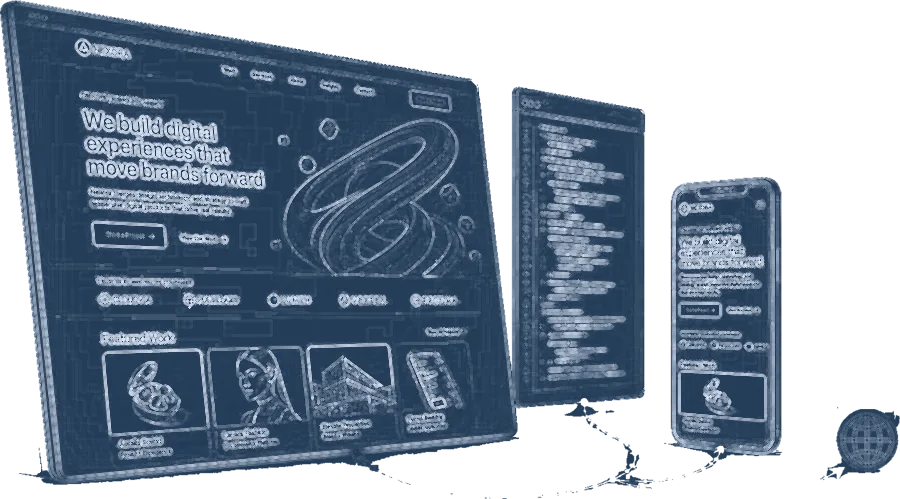
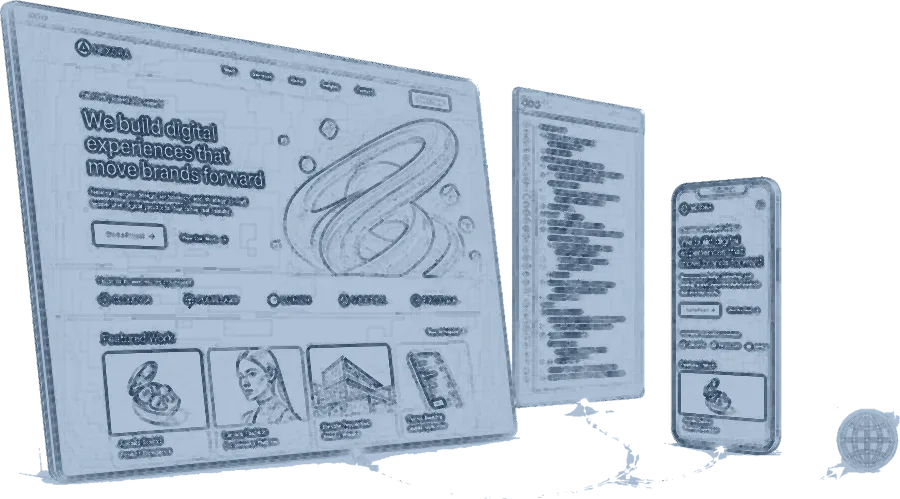
Turn the plates the right way up: graphite on paper, not silver on navy
Struck was the wrong call and the numbers say why. The ground landed at luma
0.235 against a page of 0.204 -- 0.03 of separation, which is no visible plate
at all -- and what sat on it was one-pixel silver strokes. 03's six print at
132px. Nothing read.

The rule that actually binds is only that a plate may not be DARKER than the
page, which is the hole-in-the-page failure every script here guards against.
A LIGHT plate was never the problem: the photographs these replace ran 0.29 to
0.55. So the drawing goes the ordinary way round -- a light panel with the
book's own navy on it -- and the medians run 0.65 to 0.75 against the same
0.2036 page.

Both colours are chosen against a failure rather than picked. INK #22384f sits
a shade off the page, so a stroke reads as the paper showing through instead of
as a black line. PAPER #aec1d6 stops well short of white: at 0.83 the plate is
a lit slab stuck on the page, which is the sticker failure recorded against
07's action panel.

Two mechanical consequences. The negate is gone, and the thickening operator
flips with it -- Erode grows the dark region and the strokes are dark now,
where the struck version wanted Dilate for the same reason inverted; swapping
the drawing over without swapping the operator eats it. And PAPER the colour
collided with PAPER the sampled page luma, which would have handed
+level-colors a number where it wanted a hex, so the measurement is PAGE_LUMA.
[…]

diff --git a/CLAUDE.md b/CLAUDE.md
@@ -1217,18 +1217,28 @@ re-run here.
 - **It is not idempotent.** Sketching a sketch finds edges in the first pass's
   own strokes and doubles them. `git checkout apps/web/public/{services,process,work}`
   before a second run, exactly as `stamp-book-logo.py` requires.
-- **The drawing is struck, not printed.** A pencil sketch is graphite on white
-  paper and white paper is the one thing this book cannot have — a plate
-  lighter than the page is a hole punched in it. The sketch is made on white
-  and then negated, so the ground goes dark and the strokes come up silver,
-  which is what 01's and 07's engravings already do through their masks. The
-  chapter illustrations and the engraved figures are now the same kind of
-  picture.
-- **Tone is `build-process-plates.sh`'s, exactly**, and the audit tests the
-  same statistic against the same pixel: the MEDIAN against a paper luma
-  sampled live off `frame-091` (0.2036). Median and not minimum — a drawing is
-  *supposed* to contain strokes darker than the paper; what it may not be is
-  darker overall. All fifteen land 0.222–0.387.
+- **It is graphite on paper, and it shipped struck first.** The first version
+  was made on white and then NEGATED — dark ground, silver strokes — to match
+  01's and 07's engravings, which are painted through luminance masks in
+  `#dce7f7`. It was unreadable. The ground landed at luma 0.235 against a page
+  of 0.204, which is no visible plate at all, and what sat on it was one-pixel
+  silver strokes; 03's six print at 132px. **The rule that actually binds is
+  only that a plate may not be DARKER than the page** — the hole-in-the-page
+  failure — and a light plate was never the problem: the photographs these
+  replace ran 0.29–0.55. So it is a pencil sketch the ordinary way round now, a
+  light panel with the book's own navy drawn on it, and the medians run
+  0.65–0.75.
+- **`INK` is a shade off the page and `PAPER` stops short of white.** A stroke
+  at `#22384f` (0.21) against a page of 0.204 reads as the paper showing
+  through rather than as a black line; `PAPER` at `#aec1d6` (0.72) rather than
+  0.83 keeps the plate from being a lit slab stuck on the page — the sticker
+  failure recorded against 07's action panel. The audit is still
+  `build-process-plates.sh`'s: the MEDIAN against a page luma sampled live off
+  `frame-091` (0.2036). Median and not minimum — a drawing is *supposed* to
+  contain strokes as dark as the page; what it may not be is darker overall.
+- **`PAPER` is the colour and `PAGE_LUMA` is the measurement.** They were both
+  called `PAPER` for one revision and the sampled luma overwrote the colour,
+  which would have fed `+level-colors` a number where it wanted a hex.
 - **Two traps, both hit on the way in.** `%[fx:minima]` on an sRGB file is the
   darkest CHANNEL, and `#233c58` has a red of 0.137 against a luma of 0.235, so
   the first audit refused every plate. And 02's five are **keyed** — `srgba`,
@@ -1252,12 +1262,13 @@ re-run here.
   up as speckle with them. `DILATE=1` is the other half and it is thickness
   rather than brightness: one pixel added to every stroke.
 
-  **The dilate runs AFTER the negate and the order is not interchangeable.**
-  Before it, the ground is white and the strokes dark, so `Dilate` — which
-  grows the BRIGHT region — eats the drawing instead of thickening it. Whole
-  pixels at both widths rather than a fraction of each, because morphology
-  takes whole-pixel kernels and 900 against 1240 does not separate enough to
-  matter.
+  **The thickening operator follows which way up the drawing is.** `Erode`
+  grows the DARK region, and the strokes are dark, so `Erode` is what fattens
+  them; the struck version wanted `Dilate` for the same reason inverted.
+  Swapping the drawing over without swapping the operator eats it instead of
+  thickening it. Whole pixels at both widths rather than a fraction of each,
+  because morphology takes whole-pixel kernels and 900 against 1240 does not
+  separate enough to matter.
 - **The redactions survive**, and this was checked rather than assumed. 04's
   blurred boxes over invented client names are baked into the file this reads,
   a blurred region has no edges, and a sketch cannot recover what a blur
